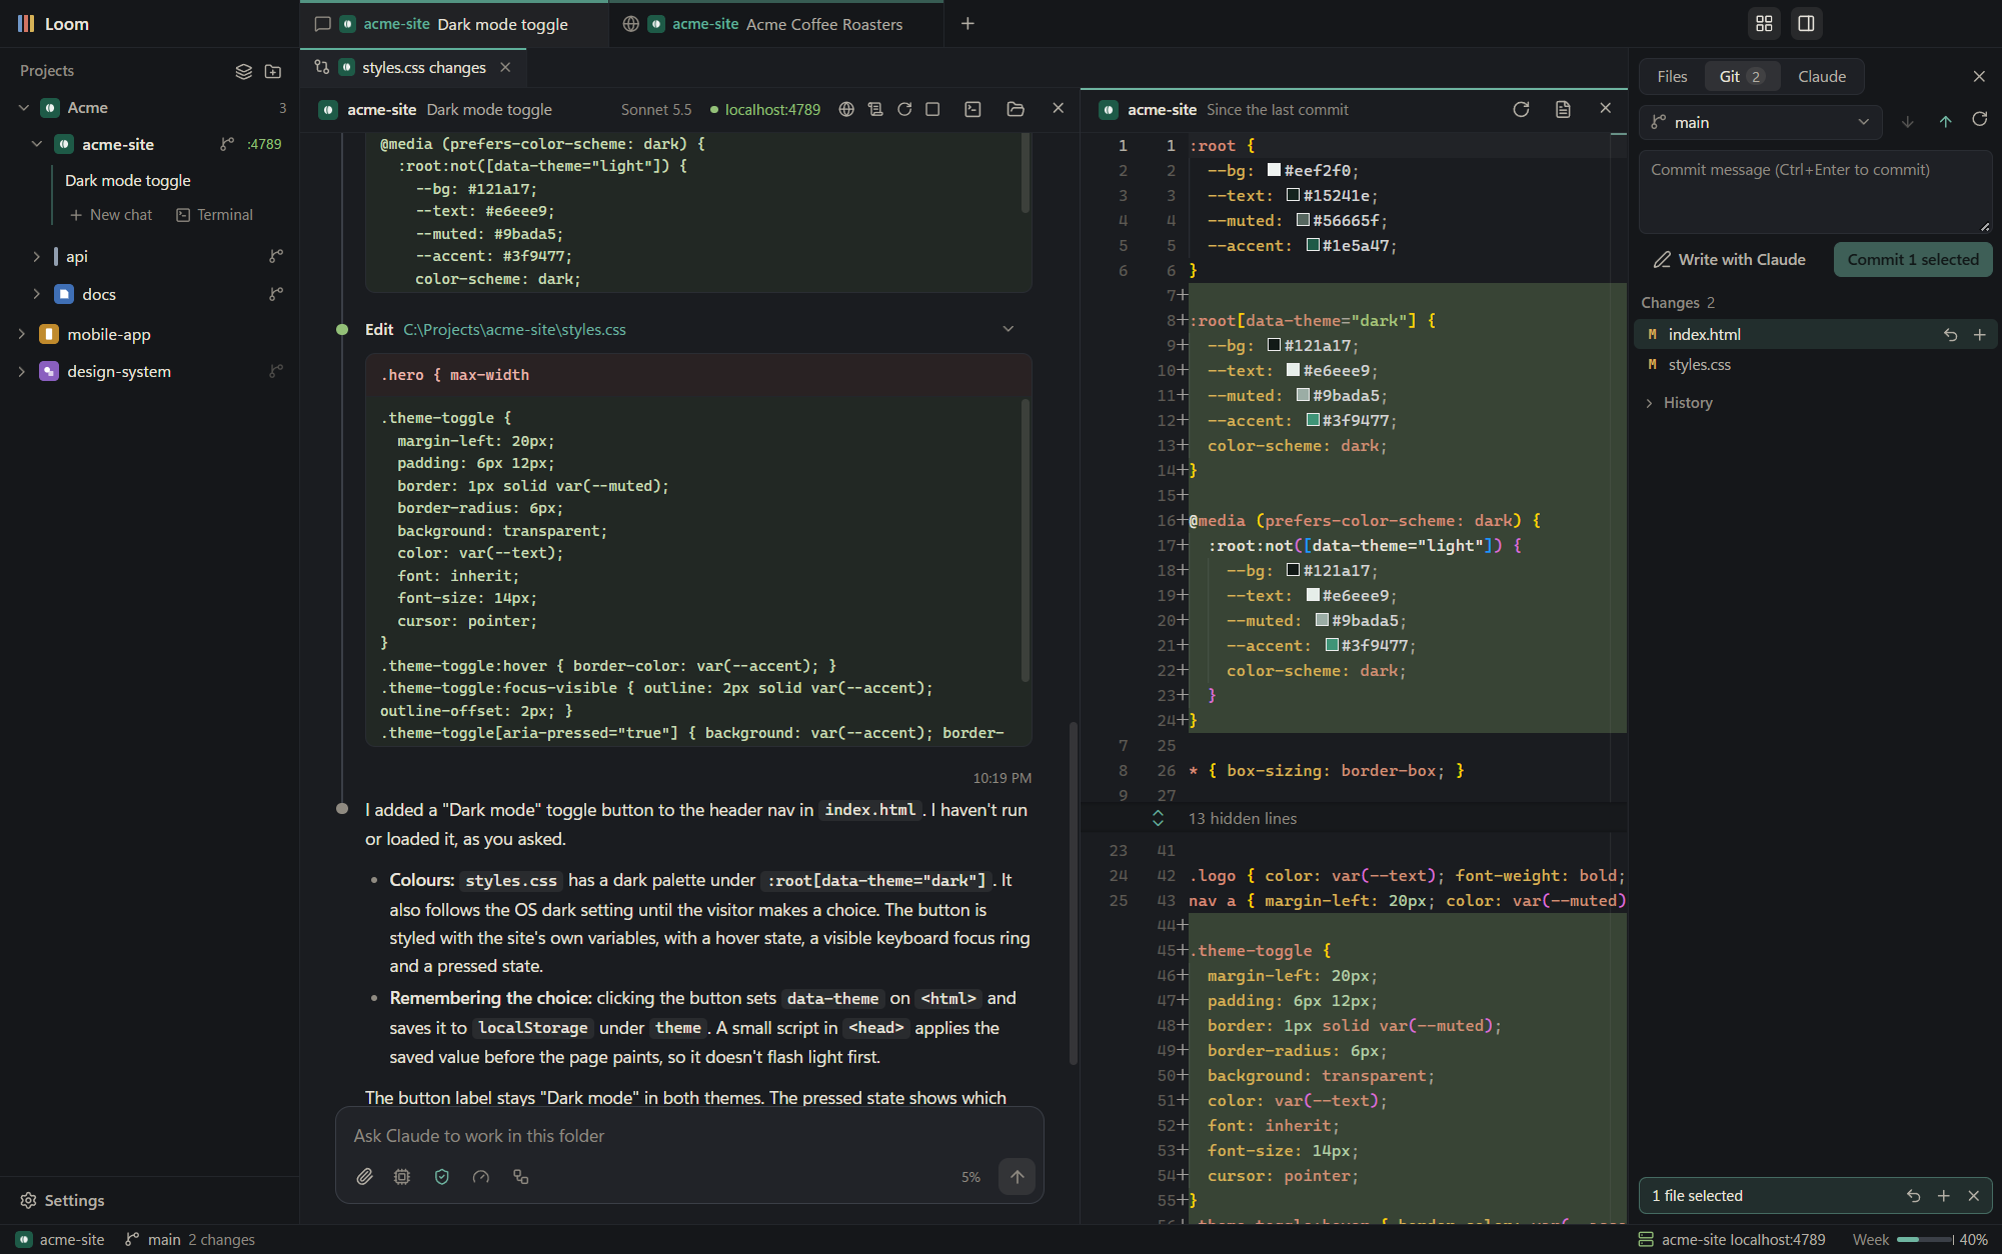
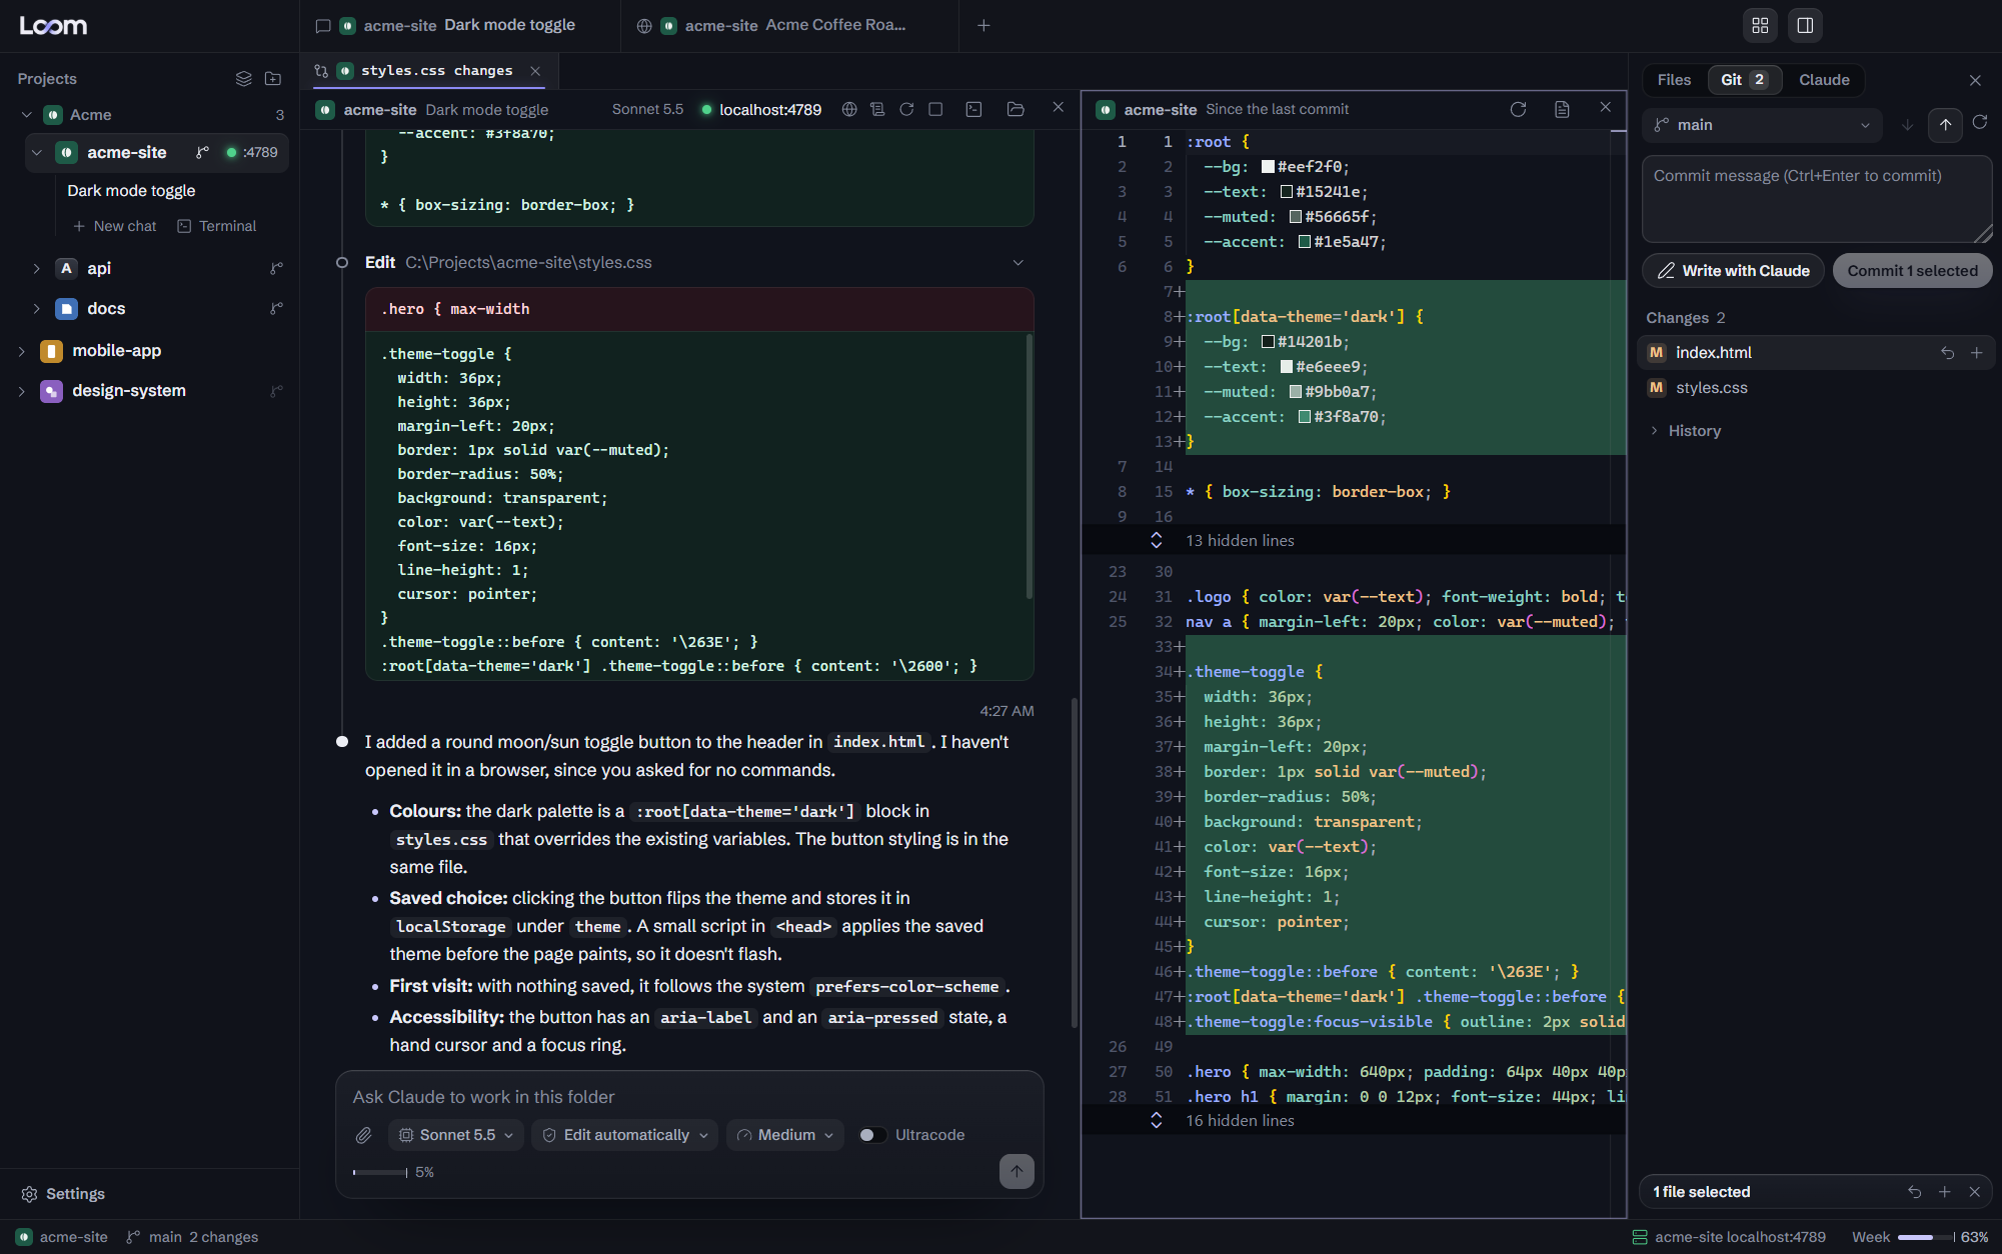
docs(loom): describe the brand design and refresh the screenshots
DESIGN.md now records the brand system the app uses (palette, type,
glass, motion, signature details), and the README screenshots show the
new look.

diff --git a/DESIGN.md b/DESIGN.md
@@ -1,45 +1,56 @@
 # Loom design
 
-Operate surface: a working tool used for hours next to code. Calm, dark, content first, standard controls. The world lends only type, palette, density and one signature move.
+Operate surface: a working tool used for hours next to code, styled to match Loom's website. The full brand guide lives outside the repo (the Loom brand kit's `BRAND.md`); the website's playable demo (`components/demo` in the site project) is the reference implementation. This file records what the app uses.
 
-## Palette
+## The idea
 
-Warm graphite ground, like undyed wool under low light. One action colour. Project colours are natural dyes.
+A graphite room lit from above. Surfaces are dark glass: each a little lighter than what is behind it, catching a thin highlight on its top edge, casting a soft deep shadow. One colour carries meaning, the violet of the logo's loop: live, active, connected. A softer lavender is the edge light: focus, selection, checked. Everything else is greys with a faint blue cast. Calm and precise, never neon. Light comes from light sources (glows, rims, LEDs), never from decorative gradients. Dark only.
+
+## Palette (tokens in `styles/base.css`)
 
 | Token | Value | Use |
 |---|---|---|
-| `--bg` | `#1a1c20` | Content: chats, editor, settings |
-| `--bg-shell` | `#15171a` | Sidebar, tab bar, status bar, right panel |
-| `--bg-raised` | `#212328` | Composer, cards, menus, user bubbles |
-| `--bg-input` / `--bg-sunken` | `#1e2025` / `#17191c` | Fields; code and tool output |
-| `--line` / `--line-soft` / `--line-strong` | `#2a2d33` / `#23262b` / `#3b3f47` | Dividers and borders |
-| `--text` / `--text-2` / `--text-3` | `#e8e4dc` / `#b4afa5` / `#8f8a81` | Body, secondary, meta (all at least 4.5:1 on `--bg`) |
-| `--accent` | `#6fb5a1` verdigris | Primary actions, focus, selection, live state |
-| `--warn` / `--danger` / `--ok` | `#dcb05a` / `#e27d6b` / `#93c078` | Needs approval, errors, success |
+| `--window` | `#0c0e15` | The window body |
+| `--bg` | `#10131c` | Panes: chats, files, terminals, settings |
+| `--bg-shell` / `--bg-top` | `#10121a` / `#12141b` | Sidebar, tab rows and side panel; title bar and status bar (the window with a white wash) |
+| `--bg-raised` / `--float` | `#161926` / `rgba(22,25,38,0.97)` | Cards; menus and popovers (with a 16px blur) |
+| `--bg-sunken` | `#080a10` | Terminal, tool output and diff wells |
+| `--line` / `--line-strong` | white at 7% / 12% | Dividers; stronger dividers, input outlines, the chat timeline |
+| `--edge` / `--edge-2` / `--hi` | white at 8% / 14% / 10% | Glass outline (inset shadow), on hover, the lit top edge |
+| `--text` / `--text-2` / `--text-3` | `#eceef4` / `#a9afbf` / `#858b9c` | Primary, secondary, meta (never dimmer than `--text-3`) |
+| `--brand` | `#8c8af6` | The one meaningful colour: active tab underline, thinking dot, running chat |
+| `--light` | `#c8c6fa` | Focus rings, checked controls, caret, links, meter fills |
+| `--brand-deep` | `#4b47b8` | Text selection, with white text |
+| `--ok` / `--warn` / `--danger` | `#4fd18b` / `#f0c38a` / `#ff8595` | Running and added; modified and needs approval; deleted, deny, stop (never violet for errors) |
 
-Thread colours (one per project): woad `#6f97c8`, madder `#d27563`, verdigris `#5fb09a`, weld `#d6b257`, indigo `#918cda`, cochineal `#cb769e`, lichen `#a1b968`, walnut `#b68f6b`, slate `#919eaf`.
+Projects keep a colour, but only as the deep tint of their initial tile (`--t-*` gradients) when they have no icon. No second accent colour.
 
 ## Type
 
-- Interface: Segoe UI Variable Text at 13px, the Windows system face. One family, fixed sizes, ratio about 1.15.
-- Chat reading text: 14px, line height 1.6.
-- Code, paths, commands and terminals only: Cascadia Code or Cascadia Mono at 12 to 13px. Never for labels.
+- Interface: Schibsted Grotesk (variable, bundled through `@fontsource-variable/schibsted-grotesk`), falling back to Segoe UI, which also covers Greek. Base 13px, labels 12 to 12.5px at 560 to 650, meta 11 to 11.5px with tabular numbers, panel headings 14 to 18px at 650 to 700 and -0.015em, big headings 28 to 40px at 700 and -0.03em.
+- Code, terminals, paths and file names: Cascadia Code or Mono. Never for labels.
 
-## Signature move: project threads
+## Shape and depth
 
-Every project has a thread colour. It appears as a 3px vertical thread beside the project in the sidebar, as a 2px line across the top of each of its tabs, as the project name inside the tab, beside the chat and file headers, and in the status bar. A tab bar that mixes projects stays readable at a glance. The app mark is the same idea: three threads with a woven weft.
+- 4px spacing base. Radii: pills (999px) for buttons and chips, 8px icon buttons and menu items, 9 to 14px fields and the composer, 12px menus and cards, 5px tiles and checkboxes. Nested corners are concentric.
+- Glass: a white wash over `#0f121b`, an inset 1px top highlight, an inset 1px outline, a deep soft shadow. Borders are inset shadows so they never change layout.
+- The primary action is a lit white button whose violet spill grows on hover; everything else is a glass pill.
+- Bars: title bar 42px, open files row 30px, pane headers 32px, status bar 28px.
+
+## Signature details
+
+- The active tab is lit, with a 2px violet underline glowing under its label; its project name turns lavender.
+- Dividers and the focused pane light up lavender; dragged tabs show lavender drop zones.
+- Running servers are green LEDs. The thinking dot is violet and pulses while Claude thinks: the only animation that loops.
 
 ## Motion
 
-- 140 to 200ms ease-out on state changes only (hover, open, focus).
-- Menus and approval cards pop in from 98.5% scale.
-- One authored moment: while Claude works, a short shuttle crosses a thread line beside the elapsed time.
-- Everything respects reduced motion.
+Ease-out `cubic-bezier(0.16, 1, 0.3, 1)` for almost everything (hovers 200 to 250ms, menus 180ms from their corner at 98% scale, new chat steps 350ms rising 4px); ease-in-out for things moving between two places; press feedback at 96%. Everything collapses under reduced motion.
 
 ## Controls
 
-Standard and themed: custom dropdowns (`Dropdown` in `components/Menu.tsx`), checkboxes and radios, segmented controls, fields with a verdigris focus ring, thin warm scrollbars, verdigris text selection. Context menus are drawn by the app, never by the OS.
+All drawn in theme: dropdowns with a drawn chevron and a glass list, checkboxes and radios that light lavender, the small Ultracode switch, fields with a lavender focus, keycaps with a lit top and dark base, light thin scrollbars, violet selection. Context menus are drawn by the app, never by the OS.
 
 ## Rules kept
 
-No em dashes, no decorative numbering, no uppercase eyebrow labels, no gradients as decoration, no cards as the page structure, monospace only for code and data.
+No em dashes, no decorative numbering, no uppercase eyebrow labels, no gradient text or glow blobs without a source, no cards as the page structure, monospace only for code and data, no light-on-light glass.
